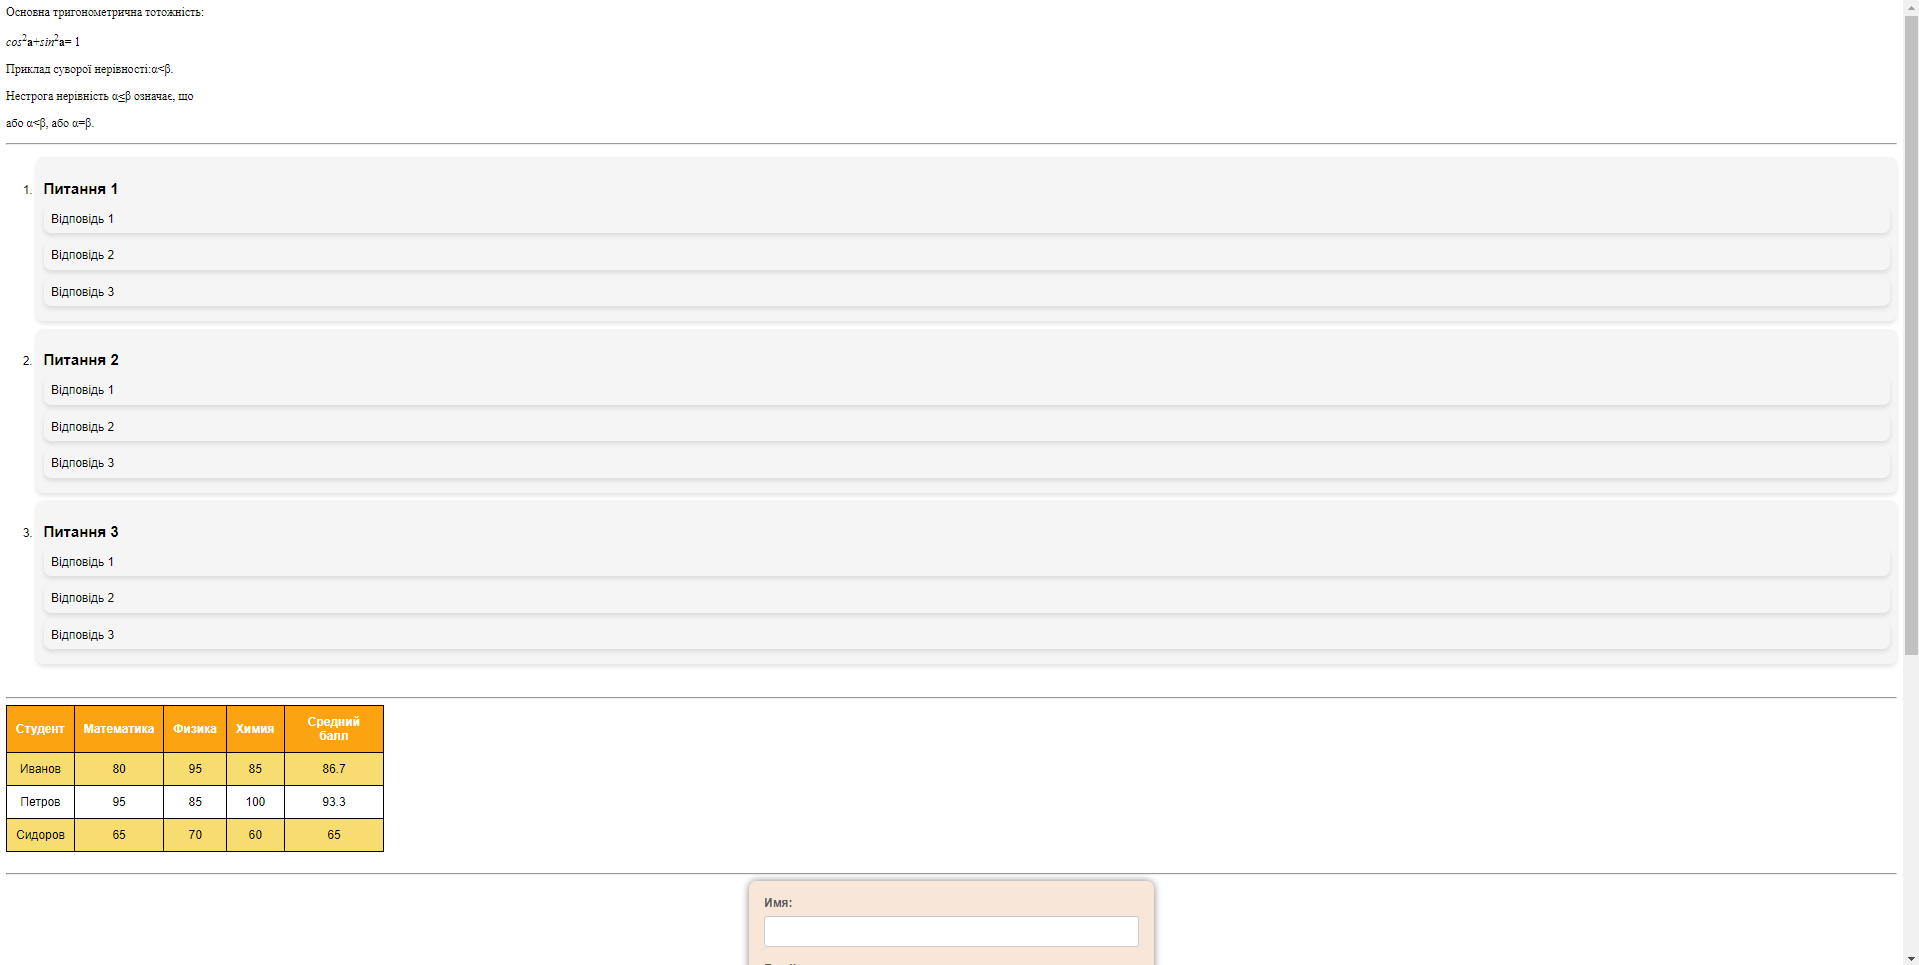
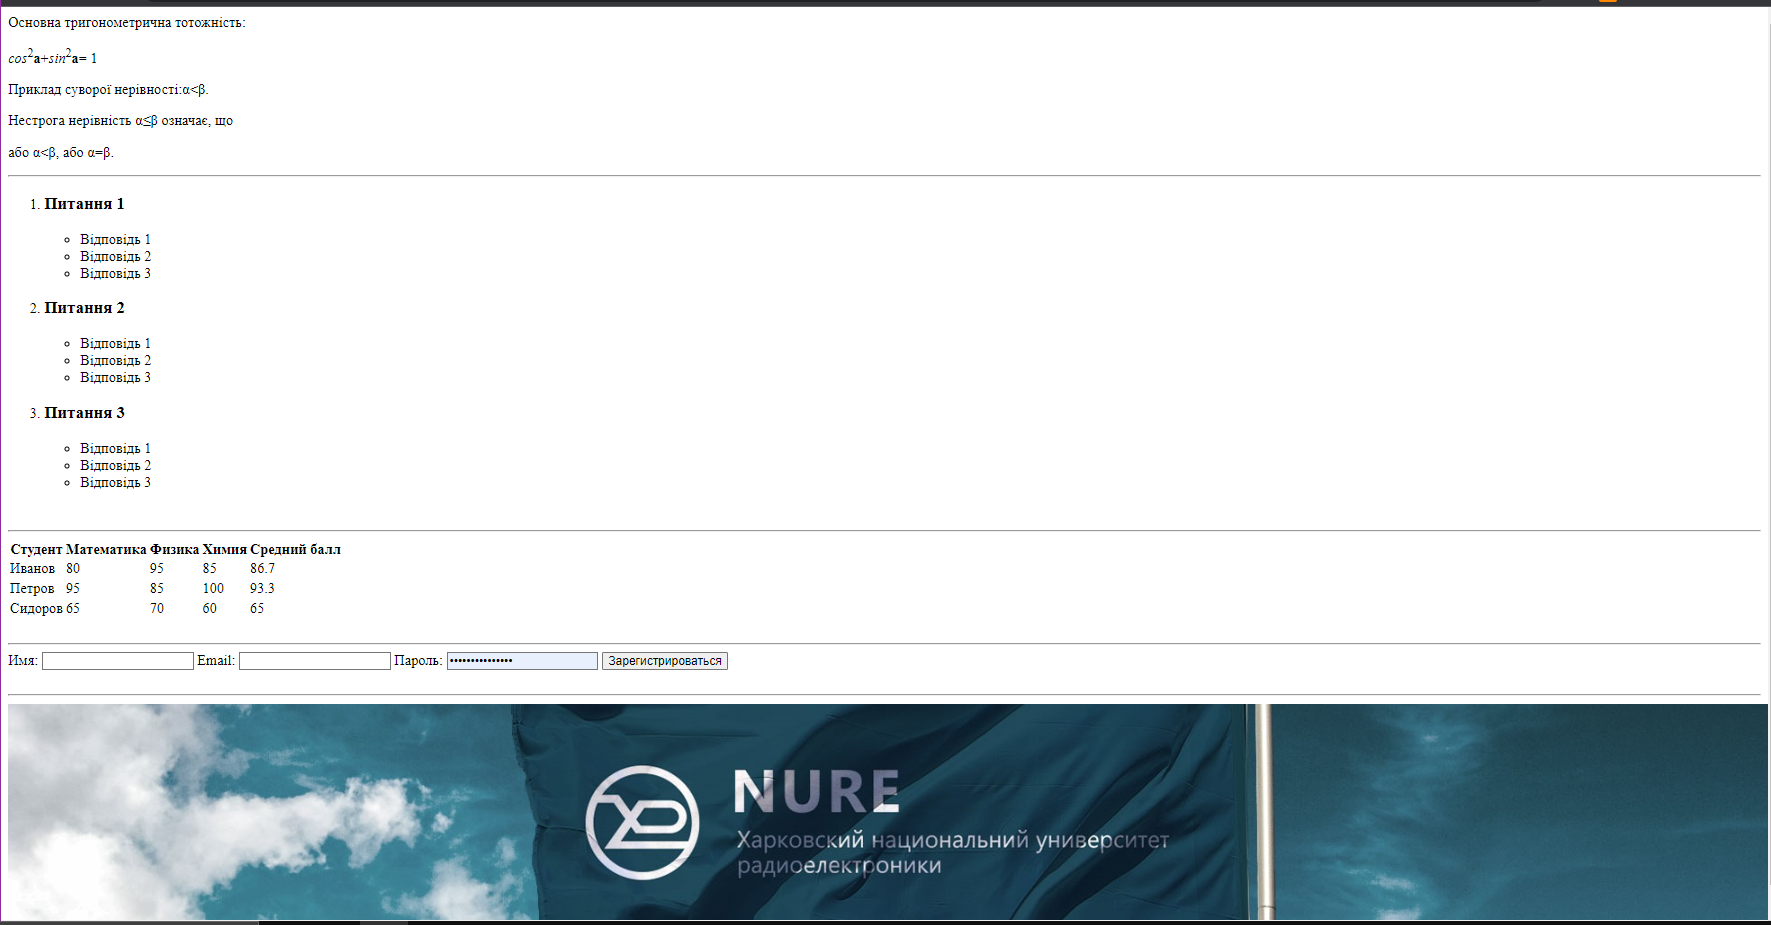
add program demonstrations

Changed region(s): [[0.0, 0.0, 1.0, 1.0]]

diff --git a/index.html b/index.html
@@ -2,7 +2,7 @@
 <html lang="en">
 <head>
     <meta charset="UTF-8">
-    <link href="./styles.css" rel="stylesheet" type="text/css">
+     <!-- <link href="./styles.css" rel="stylesheet" type="text/css"> -->
     <title>Title</title>
 </head>
 <body>
